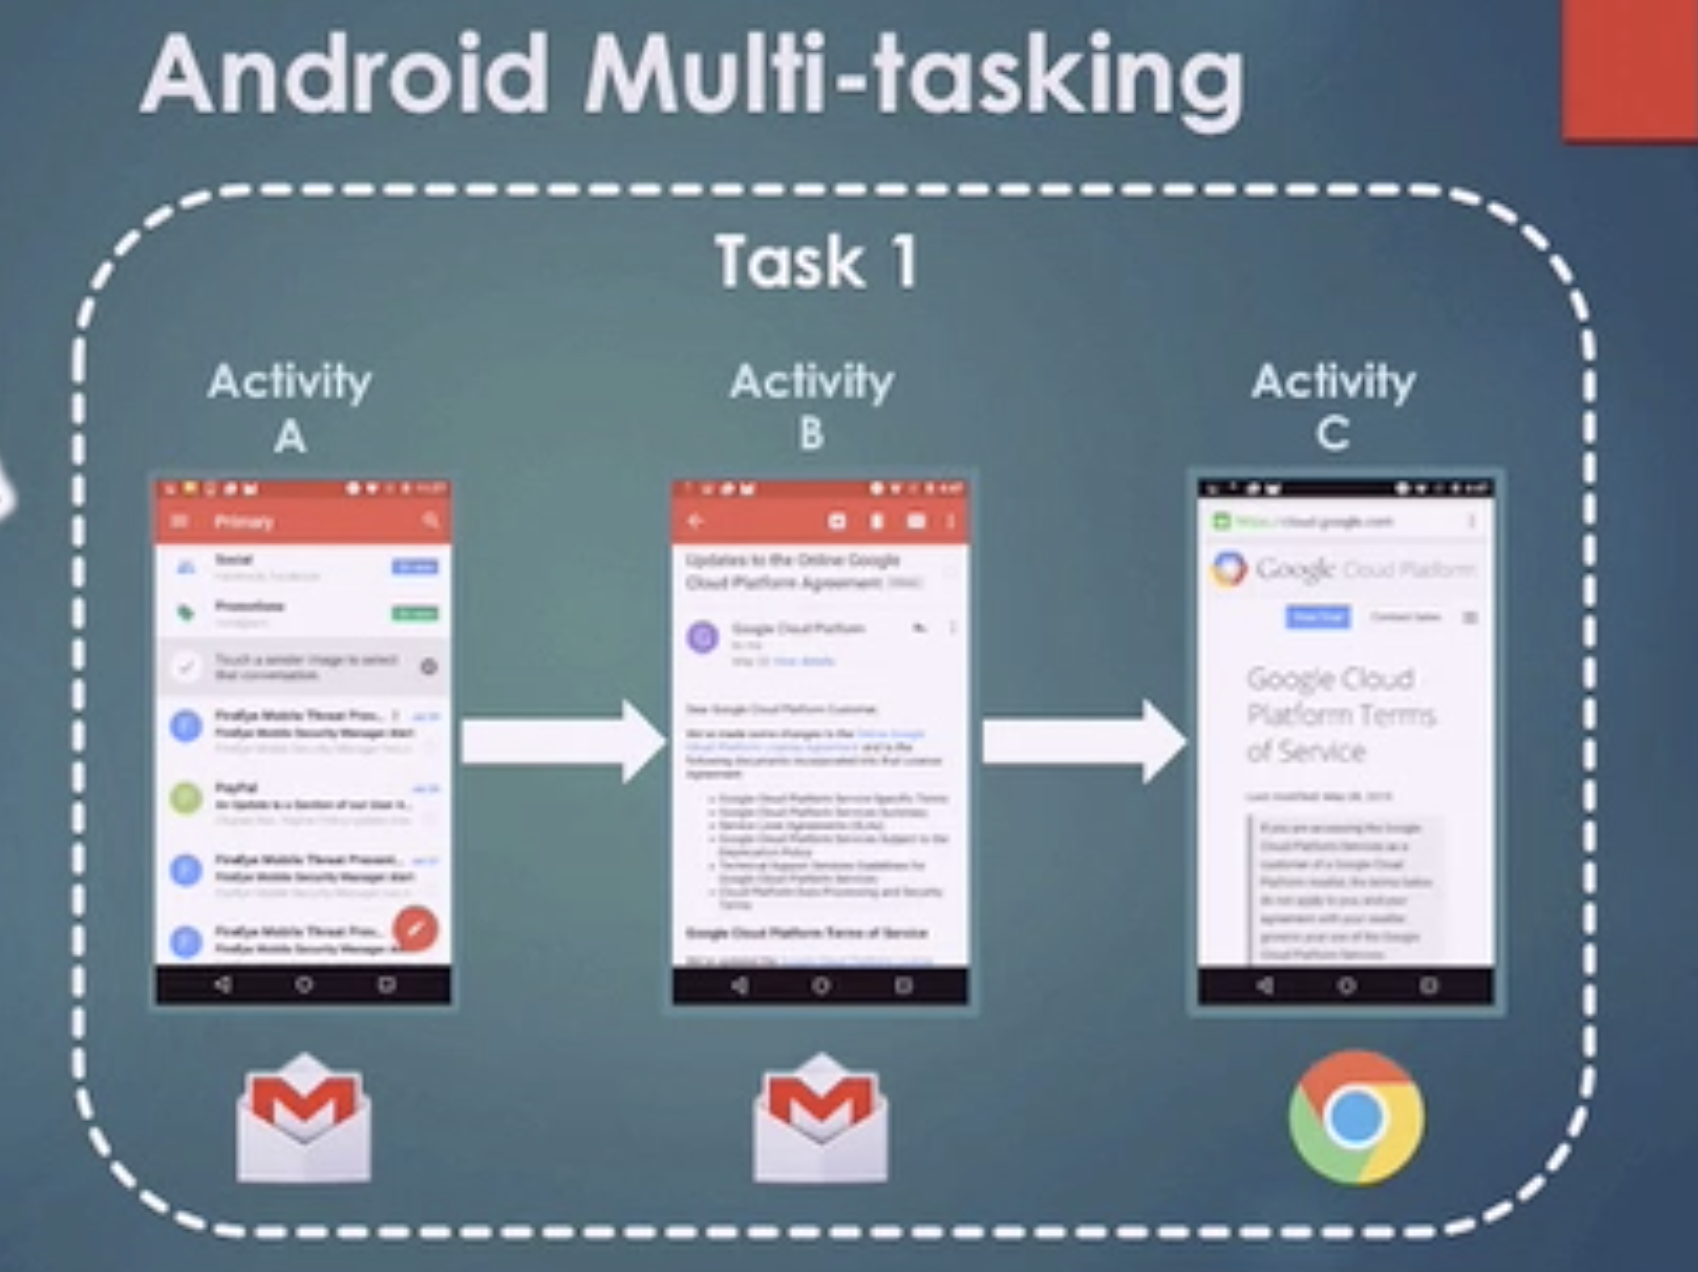
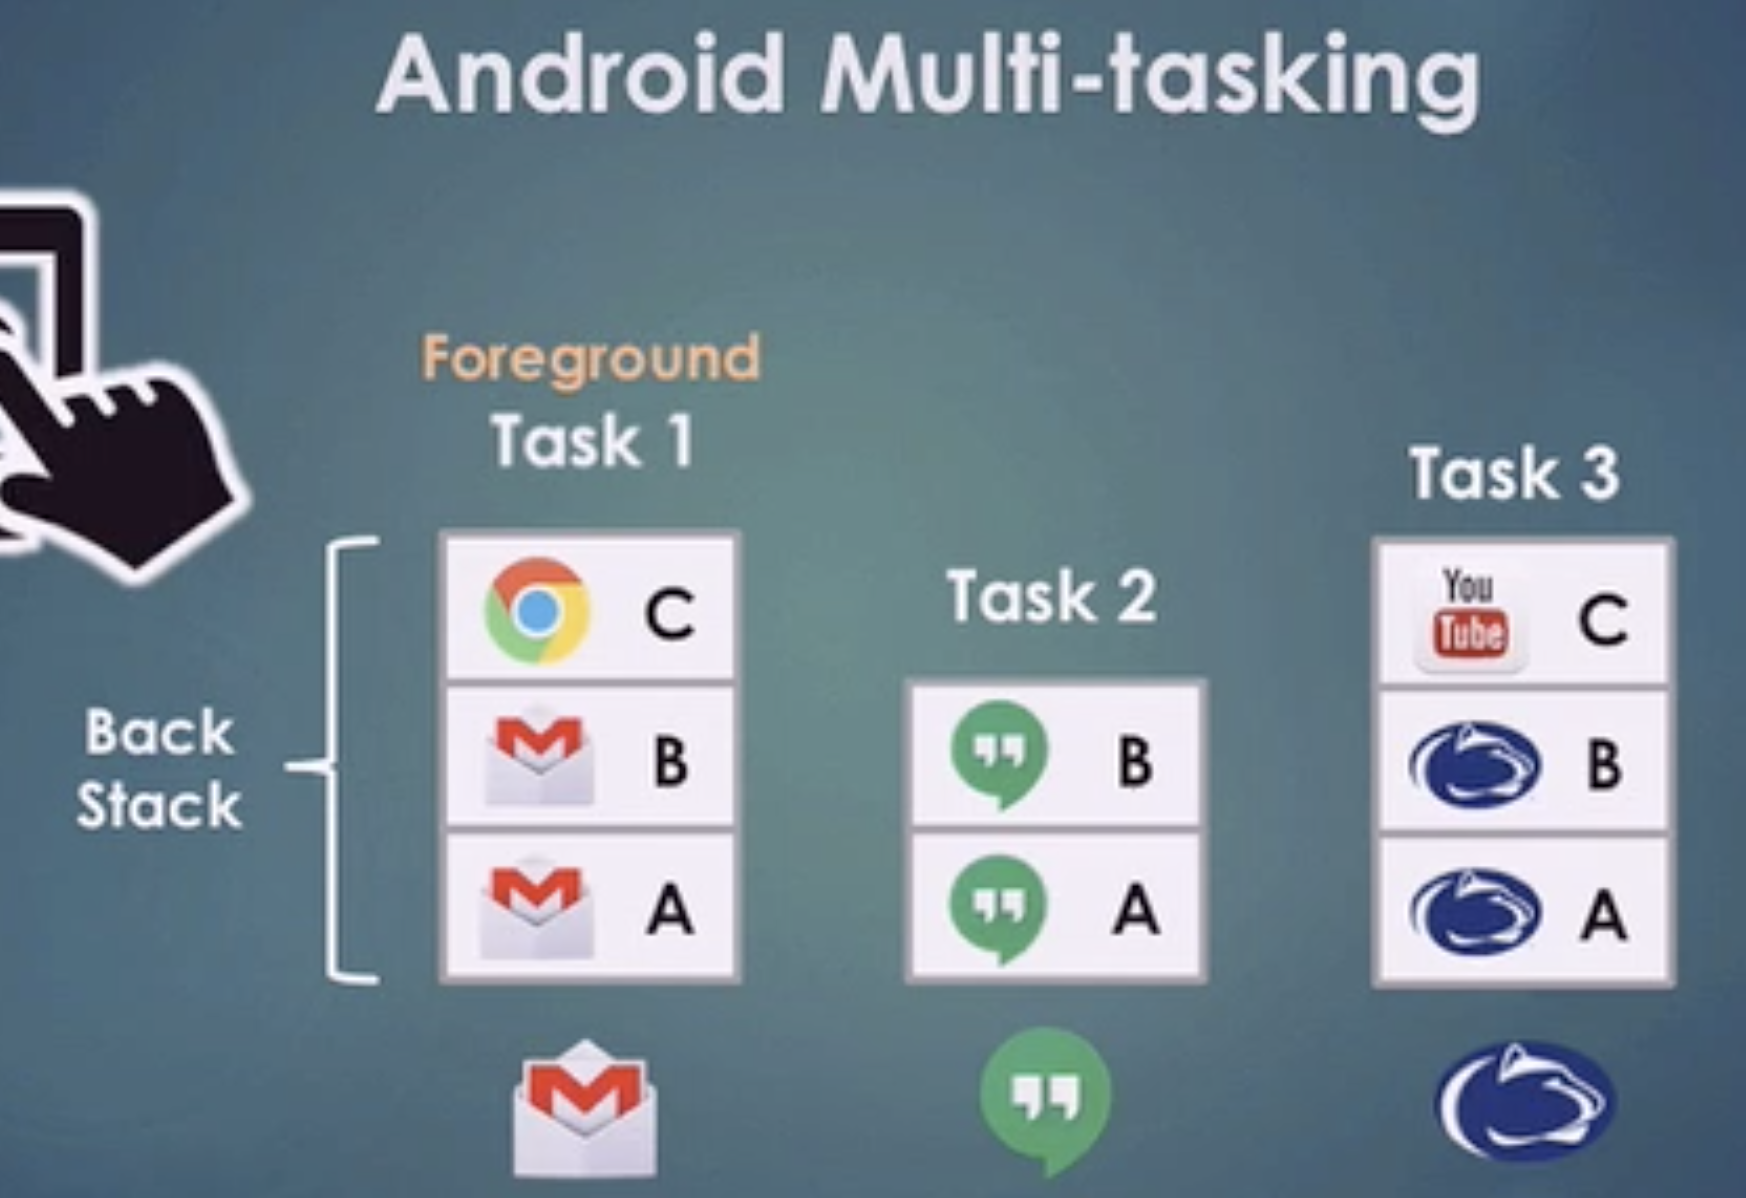
GitBook: [master] one page and 4 assets modified

diff --git a/mobile-apps-pentesting/android-app-pentesting/android-task-hijacking.md b/mobile-apps-pentesting/android-app-pentesting/android-task-hijacking.md
@@ -13,21 +13,27 @@ This is some simple activity flow:
 * Activity 3 is started which pushes both Activity 1 and 2 to the Back Stack.
 * Now when Activity 3 is closed. The previous activity i.e., 2 is brought automatically to the foreground. This is how task navigation works in Android.
 
-![](../../.gitbook/assets/image%20%28550%29.png)
+![](../../.gitbook/assets/image%20%28551%29.png)
 
 ### Android Multi-tasking - One Task
 
 One task is composed by several activities
 
-![](../../.gitbook/assets/image%20%28552%29.png)
+![](../../.gitbook/assets/image%20%28553%29.png)
 
 ### Android Multi-tasking - Several Tasks
 
 Android usually manages several tasks
 
-![](../../.gitbook/assets/image%20%28551%29.png)
+![](../../.gitbook/assets/image%20%28552%29.png)
 
-## Task affinity and Launch Modes
+## Task Control Knobs
+
+![](../../.gitbook/assets/image%20%28550%29.png)
+
+## Task affinity attack
+
+### Task affinity and Launch Modes
 
 **Task affinity** is an attribute that is defined in each `<activity>` tag in the `AndroidManifest.xml` file. It describes which Task an Activity prefers to join.  
 By default, every activity has the same affinity as the **package** name.
@@ -52,7 +58,7 @@ When the launchMode is set to `singleTask`, the Android system evaluates three p
 * **If creating a new activity instance is necessary**: The Activity Manager Service \(AMS\) selects a task to host the newly created instance by finding a “**matching**” one in all existing tasks. **An activity “matches” a task if they have the same task affinity**. This is the reason why we can **specify the same task affinity as the vulnerable app in our malware/attacker's app so it launches in their task instead of creating it's own**.
 * **Without finding a “matching” task**: The AMS creates a new task and makes the new activity instance the root activity of the newly created task.
 
-## Attack
+### Attack
 
 The victim needs to have the **malicious** **app** **installed** in his device. Then, he needs to **open** **it** **before** opening the **vulnerable** **application**. Then, when the **vulnerable** application is **opened**, the **malicious** **application** will be **opened** **instead**. If this malicious application presents the **same** **login** as the vulnerable application the **user won't have any means to know that he is putting his credentials in a malicious application**.
 
